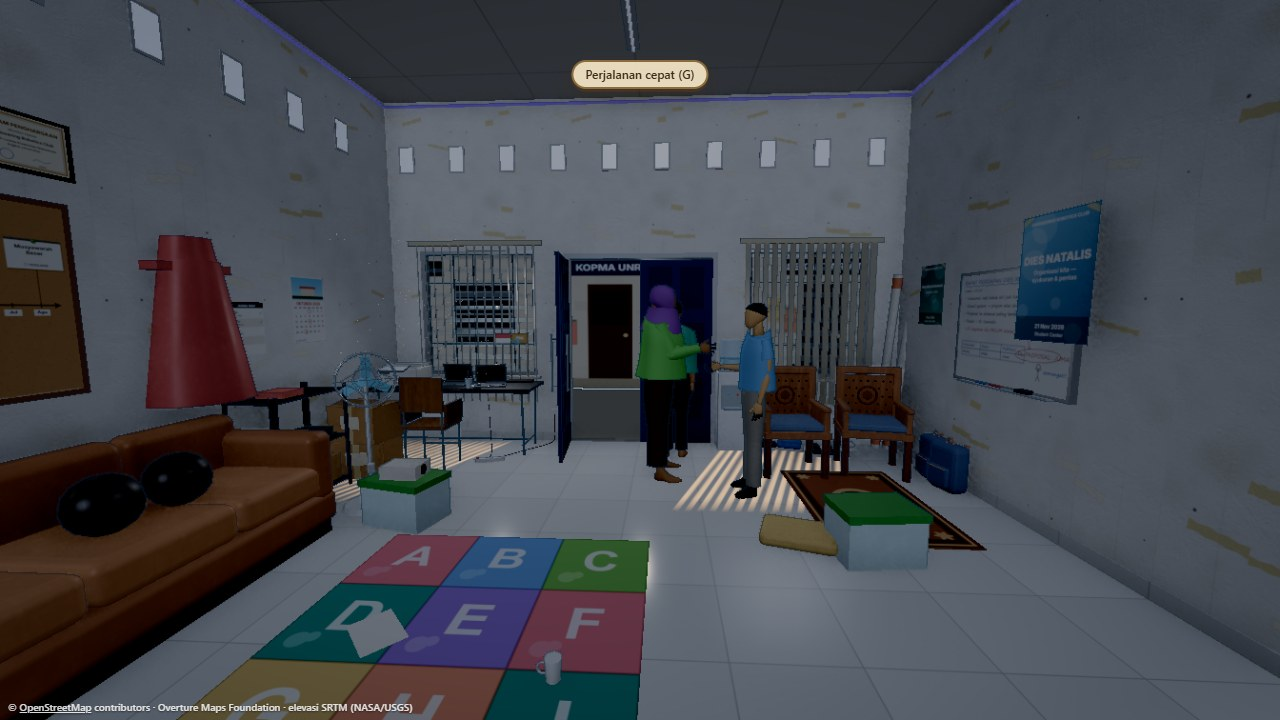
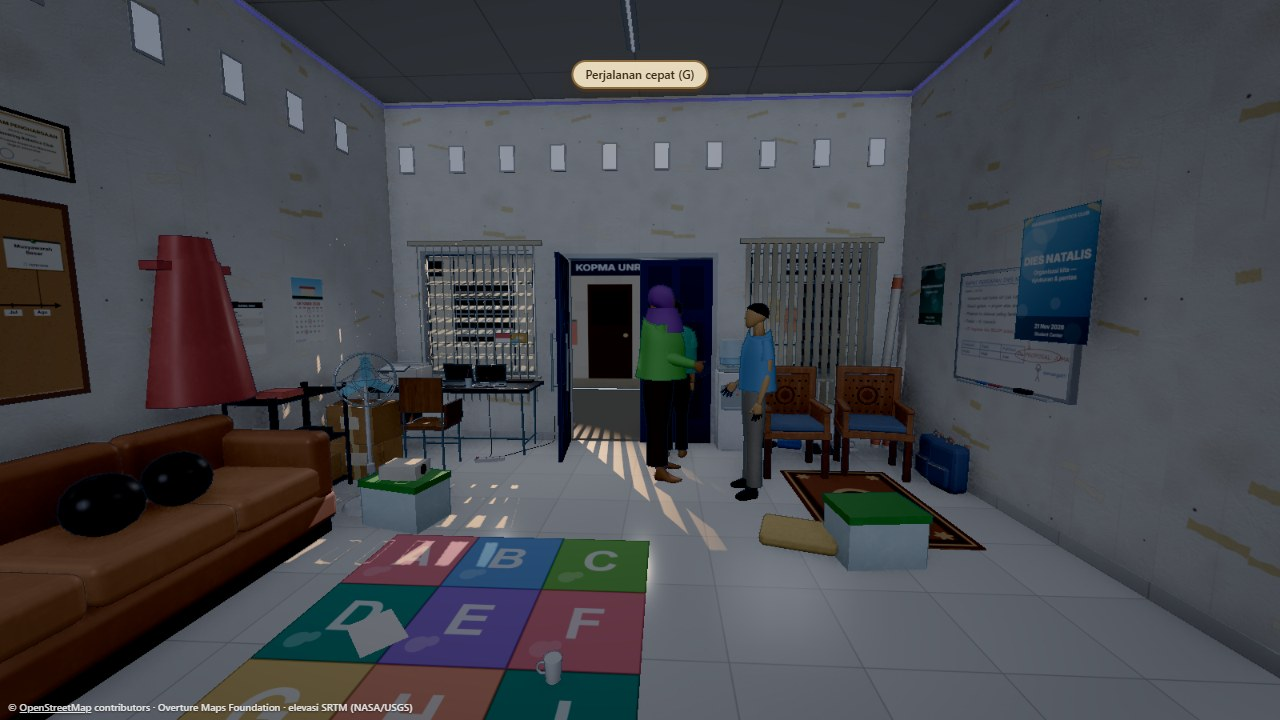
feat(sekre): sorot sore SpotLight ber-cookie + bayangan asli, grading hangat, detail meja

diff --git a/src/interiors/sekre/lighting.js b/src/interiors/sekre/lighting.js
@@ -16,7 +16,7 @@ import { RoomEnvironment } from 'three/addons/environments/RoomEnvironment.js';
 import { sunFromHour } from '../../sim/dayCycle.js';
 import { directionFromAngles } from '../../world/Lighting.js';
 import { makeRng } from '../../entities/util.js';
-import { SELASAR, WINDOW, WINDOWS, WINDOW_CENTER, DOOR, TL_POS, ROOM } from './data.js';
+import { SELASAR, WINDOW, WINDOW_CENTER, DOOR, TL_POS, ROOM } from './data.js';
 
 export const TL_ON_FROM = 17.5;
 export const TL_ON_UNTIL = 6;
@@ -28,41 +28,36 @@ const MOTES = 80;
 const UP = new THREE.Vector3(0, 1, 0);
 const WHITE = new THREE.Color(0xffffff);
 const LED_COLOR = 0x8a3cff;
+const HANGAT = new THREE.Color(0xffc896);
 /**
  * Sinar sore artistik [INFERENSI] (rujukan visual user, bukan fisika): selasar beratap menghalangi matahari langsung
- * di hampir semua jam, jadi 15:00–17:30 berkas sinar bergaris bilah tirai dipalsukan sebagai decal cahaya aditif di
- * lantai depan tiap jendela (1 draw call), dan ruangan diredupkan agar kontras.
+ * di hampir semua jam, jadi 15:00–17:30 sebuah SpotLight hangat dari selasar (di bawah atap) menyorot masuk lewat
+ * jendela & pintu dengan cookie bergaris bilah tirai dan bayangan asli: garis cahaya jatuh di lantai, meja, dinding,
+ * dan orang. Ruangan diredupkan agar kontras.
  */
-function createSinarSore() {
+export const SOROT_SORE = Object.freeze({ pos: [-1.6, 3.35, -4.6], target: [-2.1, 0.4, -2.0], intensity: 140 });
+function createSorotSore() {
   const c = document.createElement('canvas');
-  c.width = 256;
-  c.height = 256;
+  c.width = 512;
+  c.height = 64;
   const g = c.getContext('2d');
-  for (let x = 0; x < 256; x += 18) { // garis bilah tirai
-    const grad = g.createLinearGradient(0, 0, 0, 256);
-    grad.addColorStop(0, 'rgba(255,255,255,0)');
-    grad.addColorStop(0.15, 'rgba(255,255,255,1)');
-    grad.addColorStop(0.85, 'rgba(255,255,255,0.85)');
-    grad.addColorStop(1, 'rgba(255,255,255,0)');
-    g.fillStyle = grad;
-    g.fillRect(x + 4, 0, 10, 256);
-  }
+  g.fillStyle = '#000';
+  g.fillRect(0, 0, 512, 64);
+  g.fillStyle = '#fff';
+  for (let x = 0; x < 512; x += 16) g.fillRect(x + 5, 0, 9, 64); // bilah tirai vertikal → garis cahaya
   const tex = new THREE.CanvasTexture(c);
   tex.colorSpace = THREE.SRGBColorSpace;
-  const geos = WINDOWS.map((w) => {
-    const geo = new THREE.PlaneGeometry(w.w, 1.9).rotateX(-Math.PI / 2);
-    const p = geo.attributes.position;
-    for (let i = 0; i < p.count; i += 1) p.setX(i, p.getX(i) + (p.getZ(i) + 0.95) * -0.35); // condong: sinar dari kanan-depan
-    return geo.translate(w.x - 0.25, 0.006, -1.95);
-  });
-  const mat = new THREE.MeshBasicMaterial({ map: tex, color: 0xffc98a, transparent: true, opacity: 0, blending: THREE.AdditiveBlending, depthWrite: false });
-  mat.name = 'sekre:sinar-sore';
-  const mesh = new THREE.Mesh(mergeGeometries(geos, false), mat);
-  for (const x of geos) x.dispose();
-  mesh.name = 'sinar-sore';
-  mesh.renderOrder = 2;
-  mesh.visible = false;
-  return mesh;
+  const spot = new THREE.SpotLight(0xffc48a, 0, 14, Math.PI / 5, 0.4, 2);
+  spot.name = 'sorot-sore';
+  spot.map = tex;
+  spot.position.set(...SOROT_SORE.pos);
+  spot.target.position.set(...SOROT_SORE.target);
+  spot.castShadow = true;
+  spot.shadow.mapSize.set(1024, 1024);
+  spot.shadow.bias = -0.0008;
+  spot.shadow.camera.near = 0.5;
+  spot.shadow.camera.far = 14;
+  return spot;
 }
 export const soreFactor = (h) => smoothstep(14.6, 15.4, wrapHour(h)) * (1 - smoothstep(17.1, 17.7, wrapHour(h)));
 const LED_INTENSITY = 16;
@@ -158,7 +153,7 @@ export function createSekreLighting({ renderer = null, scene }) {
   const laptopGlow = new THREE.PointLight(0x9cc4ff, 0, 3, 2);
   laptopGlow.position.set(1.5, 1.05, 1.2);
   const motes = createMotes();
-  const sinar = createSinarSore();
+  const sorot = createSorotSore();
   // LED ungu suasana malam (foto 2, 3): strip emisif keliling plafon ruang utama + satu PointLight ungu
   const ledMat = new THREE.MeshBasicMaterial({ color: 0x000000 });
   ledMat.name = 'sekre:led-ungu';
@@ -169,7 +164,7 @@ export function createSekreLighting({ renderer = null, scene }) {
   led.name = 'led-ungu';
   const ledLight = new THREE.PointLight(LED_COLOR, 0, 0, 2);
   ledLight.position.set(0, ROOM.h - 0.4, 0);
-  group.add(hemi, ...tl, windowSpot, windowSpot.target, doorSpot, doorSpot.target, sun, sun.target, laptopGlow, motes, led, ledLight, sinar);
+  group.add(hemi, ...tl, windowSpot, windowSpot.target, doorSpot, doorSpot.target, sun, sun.target, laptopGlow, motes, led, ledLight, sorot, sorot.target);
 
   let envRT = null;
   if (renderer) {
@@ -236,10 +231,11 @@ export function createSekreLighting({ renderer = null, scene }) {
       sunLocalDirection(s.hour, { azimuthOffsetDeg: s.azimuthOffsetDeg ?? 0, roomYaw: s.roomYaw ?? 0 }, dir);
       const sore = soreFactor(s.hour) * (1 - clamp01(rain * 2));
       const beam = windowSunFactor(dir) * day * (1 - clamp01(rain * 2));
-      sinar.material.opacity = sore * day;
-      sinar.visible = sore * day > 0.01;
+      sorot.intensity = SOROT_SORE.intensity * sore * day;
+      sorot.shadow.autoUpdate = sorot.intensity > 0.01;
       const redup = 1 - 0.85 * sore;
       hemi.intensity *= redup;
+      hemi.color.lerp(HANGAT, 0.6 * sore); // grading hangat sore
       windowSpot.intensity *= redup;
       doorSpot.intensity *= redup;
       sun.intensity = p.sunIntensity * 0.9 * beam;
@@ -262,6 +258,8 @@ export function createSekreLighting({ renderer = null, scene }) {
     /** Lepas sumber daya di luar pohon scene: peta bayangan & env map. */
     dispose() {
       sun.shadow.dispose();
+      sorot.shadow.dispose();
+      sorot.map?.dispose();
       if (envRT && scene.environment === envRT.texture) scene.environment = null;
       envRT?.dispose();
     },

diff --git a/src/interiors/sekre/perabot/mejaDetail.js b/src/interiors/sekre/perabot/mejaDetail.js
@@ -1,0 +1,22 @@
+import { box, cyl, piece, groupOf } from './bentuk.js';
+
+/**
+ * Detail meja hitam depan [INFERENSI] (suasana rujukan visual user): tumpukan buku/map, mug, pot tanaman kecil,
+ * lampu baca jepit. Koordinat lokal meja (tengah meja di 0, permukaan y = 0); depan −Z lokal.
+ */
+export function buildMejaDetail(m) {
+  const buku = [
+    box(0.24, 0.035, 0.32, '#2f5d8a', { x: -0.72, y: 0.018 }),
+    box(0.23, 0.03, 0.31, '#b5462f', { x: -0.71, y: 0.05, ry: 0.08 }),
+    box(0.22, 0.04, 0.3, '#e8dcc0', { x: -0.72, y: 0.085, ry: -0.05 }),
+    box(0.21, 0.028, 0.29, '#3f6b3a', { x: -0.7, y: 0.119, ry: 0.12 }),
+  ];
+  const mug = [cyl(0.04, 0.04, 0.1, '#f3efe6', { x: -0.45, y: 0.05, z: -0.12 }, 12)];
+  const pot = [cyl(0.06, 0.05, 0.1, '#b0643a', { x: 0.78, y: 0.05, z: 0.08 }, 10)];
+  const daun = [];
+  for (let i = 0; i < 7; i += 1) {
+    const a = (i / 7) * Math.PI * 2;
+    daun.push(box(0.03, 0.16, 0.012, '#3d7a3a', { x: 0.78 + Math.cos(a) * 0.03, y: 0.17, z: 0.08 + Math.sin(a) * 0.03, ry: a, rz: Math.cos(a) * 0.4, rx: Math.sin(a) * 0.4 }));
+  }
+  return groupOf('meja-detail', piece(buku, m.kain, 'buku-tumpuk'), piece([...mug, ...pot], m.plastik, 'mug-pot'), piece(daun, m.prop, 'tanaman-meja', false));
+}

diff --git a/src/interiors/sekre/furniture.js b/src/interiors/sekre/furniture.js
@@ -47,6 +47,7 @@ import { buildRuangBelakang } from './perabot/ruangBelakang.js';
 import { buildKertas } from './perabot/kertas.js';
 import { buildKursiUkir } from './perabot/kursiUkir.js';
 import { buildRakSiku } from './perabot/rakSiku.js';
+import { buildMejaDetail } from './perabot/mejaDetail.js';
 import { buildPermadani, buildJasHujan } from './perabot/permadaniJas.js';
 
 /**
@@ -134,6 +135,7 @@ export function buildFurniture({ materials }) {
   staticGroup.add(placed(buildPermadani(), EKSTRA.permadani));
   staticGroup.add(placed(buildJasHujan(m), EKSTRA.jasHujan));
   staticGroup.add(placed(buildRakSiku(m), EKSTRA.rakSiku));
+  staticGroup.add(placed(buildMejaDetail(m), EKSTRA.mejaDetail));
   staticGroup.add(placed(buildLemari(m), ASET.S09.items[0]));
   staticGroup.add(buildOrdner(m));
   staticGroup.add(placed(buildBenderaStand(m), ASET.S08.items[0]));

diff --git a/src/interiors/sekre/data.js b/src/interiors/sekre/data.js
@@ -225,6 +225,7 @@ export const EKSTRA = freeze({
   jasHujan: atRaw(-2.99, 2.0, -0.45, PI / 2),
   /** Rak besi siku hitam di dinding kiri, antara kardus dan sofa (foto 8–9). */
   rakSiku: atRaw(-2.78, 0, -1.05, PI / 2),
+  mejaDetail: atRaw(-2.05, 0.75, -2.6, 0), // buku, mug, tanaman di meja hitam [INFERENSI]
   kertas: freeze([atRaw(-2.35, 0.752, -2.75, 0.3), atRaw(-1.75, 0.752, -2.72, -0.2), at(-0.7, 0.014, 0.4, 0.8)]),
 });
 
